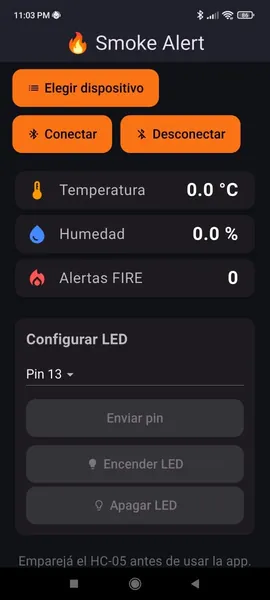
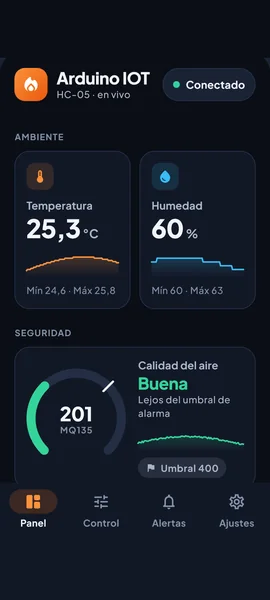
Arduino IOT v2.0: ícono, captura, texto y stack nuevos

diff --git a/index.html b/index.html
@@ -487,28 +487,51 @@
                     <img class="panel__logo" src="assets/projects/arduino-iot-logo.webp" width="160" height="160"
                         alt="" loading="lazy" decoding="async">
                     <p class="panel__kicker">04 · App Android · IoT</p>
-                    <p class="status"><span class="status__dot" aria-hidden="true"></span>Publicada</p>
+                    <p class="status"><span class="status__dot" aria-hidden="true"></span>Publicada · v2.0</p>
                 </div>
                 <h2 class="panel__title" id="arduino-title">Arduino IOT</h2>
-                <p class="panel__tagline">Los sensores de tu Arduino en el teléfono, por Bluetooth y en tiempo real.
-                </p>
-                <p class="panel__desc">Se conecta a módulos HC-05 y HC-06, muestra temperatura y humedad en vivo y
-                    dispara alertas de fuego, con llamada automática si hace falta. También controla LEDs y relés a
-                    distancia.</p>
+                <p class="panel__tagline">Los sensores de tu Arduino en el teléfono, por Bluetooth y con alarmas al
+                    instante.</p>
+                <p class="panel__desc">Se conecta a módulos HC-05 y HC-06 y muestra en vivo temperatura, humedad,
+                    calidad del aire, llama y sonido. Las alarmas de fuego, gas y temperatura corren en el Arduino:
+                    suenan aunque el teléfono no esté conectado y pueden llamar solas a un número de emergencia.
+                    Desde la app también se manejan el LED, el relé, el buzzer y una pantalla LCD, y se elige el pin
+                    de cada módulo sin tocar el código. Trae un modo demo para probarla sin hardware.</p>
 
                 <dl class="meta">
                     <div>
                         <dt>Rol</dt>
-                        <dd>Diseño y desarrollo</dd>
+                        <dd>Diseño, app y firmware</dd>
                     </div>
                     <div>
-                        <dt>Stack</dt>
+                        <dt>App</dt>
                         <dd>
                             <ul class="chips">
                                 <li>Flutter</li>
                                 <li>Dart</li>
-                                <li>Bluetooth</li>
-                                <li>Arduino</li>
+                                <li>Bluetooth SPP</li>
+                                <li>Tests del protocolo</li>
+                            </ul>
+                        </dd>
+                    </div>
+                    <div>
+                        <dt>Firmware</dt>
+                        <dd>
+                            <ul class="chips">
+                                <li>Arduino · C++</li>
+                                <li>Protocolo serie propio</li>
+                                <li>EEPROM</li>
+                            </ul>
+                        </dd>
+                    </div>
+                    <div>
+                        <dt>Hardware</dt>
+                        <dd>
+                            <ul class="chips">
+                                <li>HC-05 / HC-06</li>
+                                <li>DHT11</li>
+                                <li>MQ135</li>
+                                <li>LCD I²C</li>
                             </ul>
                         </dd>
                     </div>
